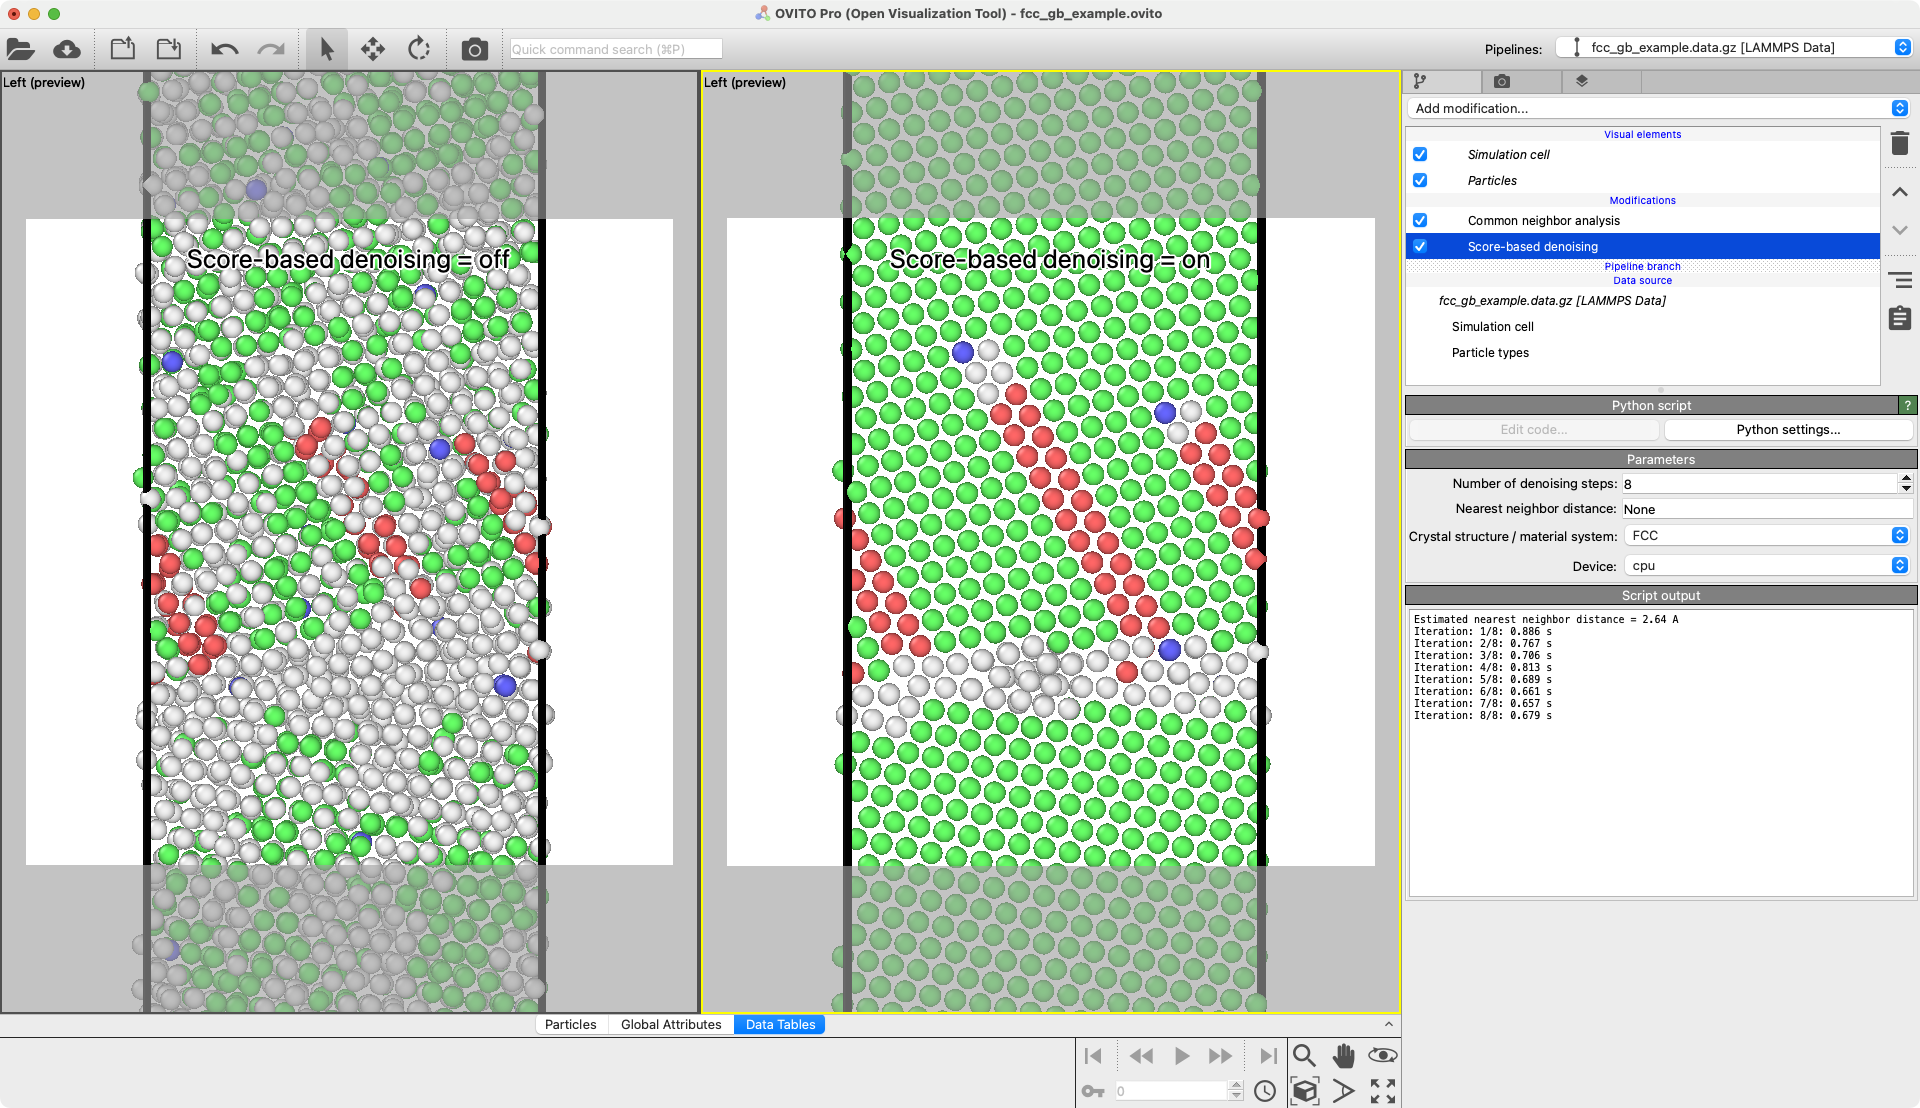
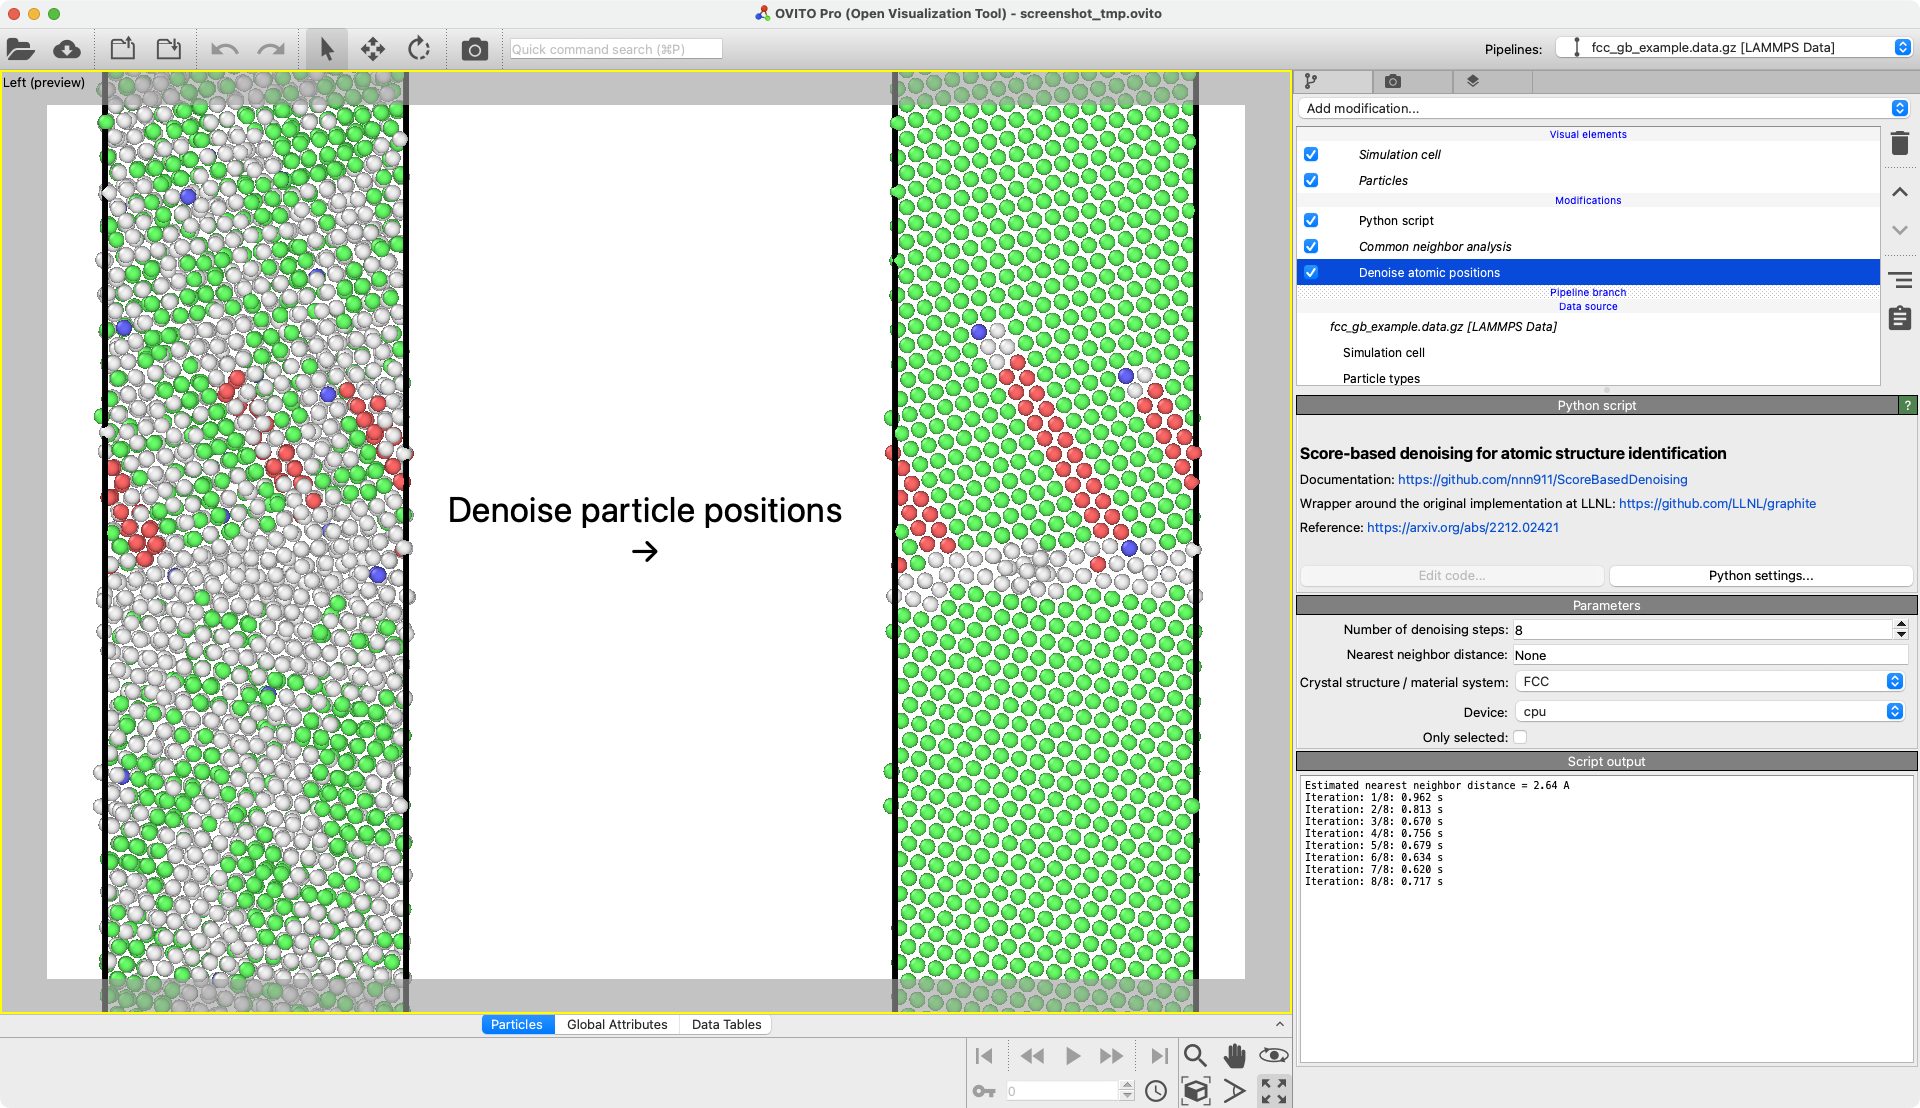
Update screenshot

diff --git a/README.md b/README.md
@@ -24,10 +24,7 @@ The modifier can be found under the label "Denoise particle positions" in the OV
 
 ## Example
 
-Score-based denoising __off__:
-![Score-based denoising off](examples/fcc_gb_example_initial.png)
-Score-based denoising __on__:
-![Score-based denoising on](examples/fcc_gb_example_final.png)
+![Score-based denoising](examples/fcc_gb_example_comparison.png)
 
 ## Installation
 - OVITO Pro [integrated Python interpreter](https://docs.ovito.org/python/introduction/installation.html#ovito-pro-integrated-interpreter):
